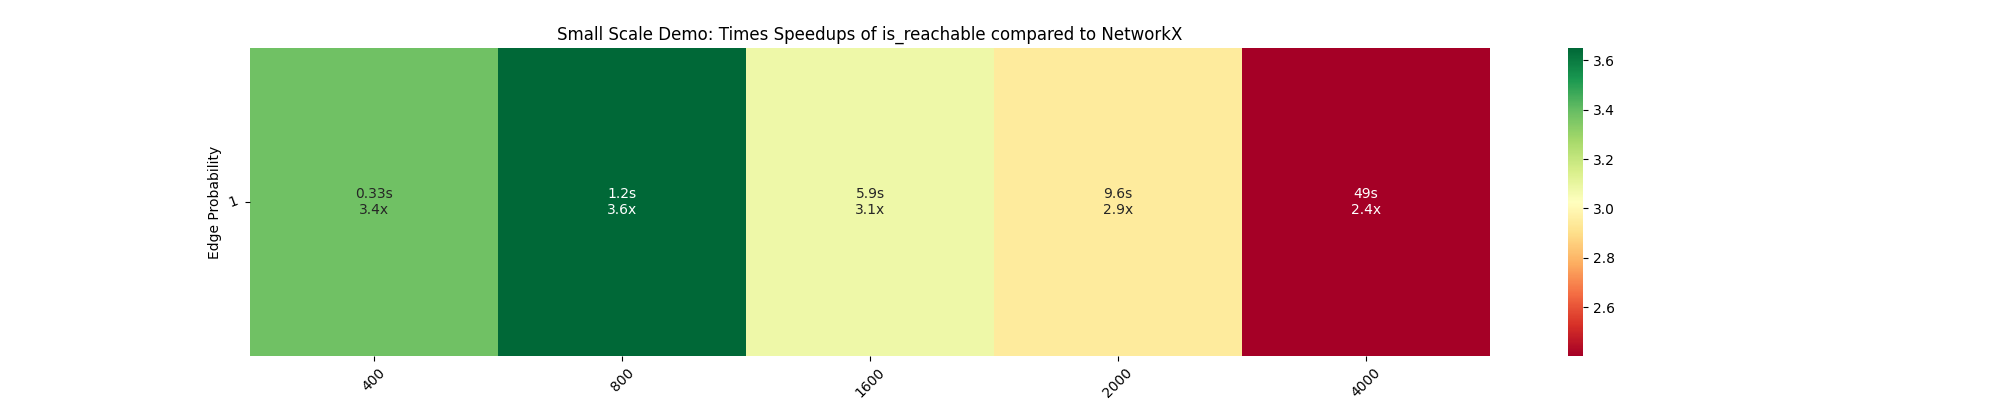
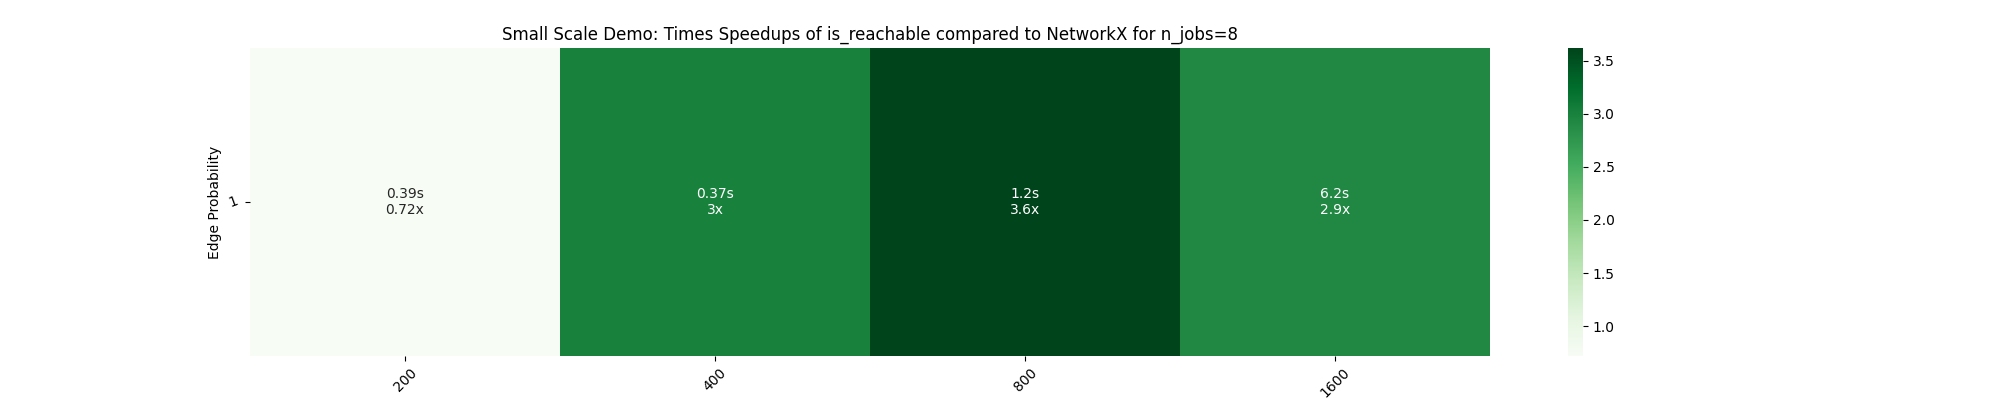
use timeit.repeat() instead of perf_counter()

diff --git a/timing/timing_individual_function.py b/timing/timing_individual_function.py
@@ -5,7 +5,7 @@ To generate heatmaps for performance visualization, make sure to run:
     python3 -m pip install -e '.[heatmap]'
 """
 
-from time import perf_counter
+import timeit
 import random
 import types
 import networkx as nx
@@ -15,7 +15,6 @@ from matplotlib import pyplot as plt
 import nx_parallel as nxp
 import joblib
 import numpy as np
-from collections import defaultdict
 
 # Default Config
 joblib.parallel_config(n_jobs=-1)
@@ -28,15 +27,21 @@ bipartite_funcs = ["node_redundancy"]
 
 
 def time_individual_function(
-    targetFunc, nx_times, parallel_times, number_of_nodes, edge_prob, *, weighted=False
+    targetFunc, number_of_nodes, edge_prob, speedup_df, heatmap_annot, *, weighted=False
 ):
     def measure_time(G, *args):
-        t1 = perf_counter()
-        c1 = targetFunc(G, *args)
-        if isinstance(c1, types.GeneratorType):
-            _ = dict(c1)
-        t2 = perf_counter()
-        return t2 - t1
+        def wrapper():
+            result = targetFunc(G, *args)
+            if isinstance(result, types.GeneratorType):
+                _ = dict(result)
+
+        times = timeit.repeat(wrapper, repeat=5, number=1)
+        return min(times)
+
+    def record_result(stdTime, parallelTime, row, col):
+        timesFaster = stdTime / parallelTime
+        speedup_df.at[row, col] = timesFaster
+        heatmap_annot.at[row, col] = f"{parallelTime:.2g}s\n{timesFaster:.2g}x"
 
     if targetFunc.__name__ not in tournament_funcs:
         for p in edge_prob:
@@ -96,8 +101,7 @@ def time_individual_function(
                 print(parallelTime)
                 stdTime = measure_time(G)
                 print(stdTime)
-                nx_times[(num, p)].append(stdTime)
-                parallel_times[(num, p)].append(parallelTime)
+                record_result(stdTime, parallelTime, num, p)
                 print("Finished " + str(targetFunc))
     else:
         # for tournament graphs
@@ -109,8 +113,7 @@ def time_individual_function(
             print(parallelTime)
             stdTime = measure_time(G, 1, num)
             print(stdTime)
-            nx_times[(num, edge_prob[0])].append(stdTime)
-            parallel_times[(num, edge_prob[0])].append(parallelTime)
+            record_result(stdTime, parallelTime, num, edge_prob[0])
             print("Finished " + str(targetFunc))
 
 
@@ -124,35 +127,17 @@ def plot_timing_heatmap(targetFunc):
         [1, 0.8, 0.6, 0.4, 0.2] if targetFunc.__name__ not in tournament_funcs else [1]
     )
 
-    speedup_df = pd.DataFrame(
-        np.inf, index=number_of_nodes, columns=edge_prob, dtype=float
-    )
+    speedup_df = pd.DataFrame(index=number_of_nodes, columns=edge_prob, dtype=float)
     heatmap_annot = pd.DataFrame(index=number_of_nodes, columns=edge_prob, dtype=object)
-    nx_times = defaultdict(list)
-    parallel_times = defaultdict(list)
 
-    trials = 5
-    for trial in range(trials):
-        print(f"Trial {trial+1} of {trials}")
-        time_individual_function(
-            targetFunc, nx_times, parallel_times, number_of_nodes, edge_prob
-        )
-
-    for row in number_of_nodes:
-        for col in edge_prob:
-            key = (row, col)
-            minStdTime = min(nx_times[key])
-            minParallelTime = min(parallel_times[key])
-            timesFaster = minStdTime / minParallelTime
-            speedup_df.at[key] = timesFaster
-            heatmap_annot.at[key] = (
-                f"{minParallelTime:.2g}s\n{speedup_df.at[row, col]:.2g}x"
-            )
+    time_individual_function(
+        targetFunc, number_of_nodes, edge_prob, speedup_df, heatmap_annot
+    )
 
     # Plot the heatmap with performance speedup values
     plt.figure(figsize=(20, 4))
     sns.heatmap(
-        data=speedup_df.T, annot=heatmap_annot.T, fmt="", cmap="RdYlGn", cbar=True
+        data=speedup_df.T, annot=heatmap_annot.T, fmt="", cmap="Greens", cbar=True
     )
 
     plt.xticks(
@@ -163,7 +148,8 @@ def plot_timing_heatmap(targetFunc):
     plt.title(
         "Small Scale Demo: Times Speedups of "
         + targetFunc.__name__
-        + " compared to NetworkX"
+        + " compared to NetworkX for n_jobs="
+        + str(nxp.get_n_jobs())
     )
     plt.xlabel("Number of Vertices")
     plt.ylabel("Edge Probability")
@@ -172,4 +158,4 @@ def plot_timing_heatmap(targetFunc):
     plt.savefig("timing/" + "heatmap_" + targetFunc.__name__ + "_timing.png")
 
 
-# plot_timing_heatmap(nx.algorithms.tournament.is_reachable)
+plot_timing_heatmap(nx.algorithms.tournament.is_reachable)
